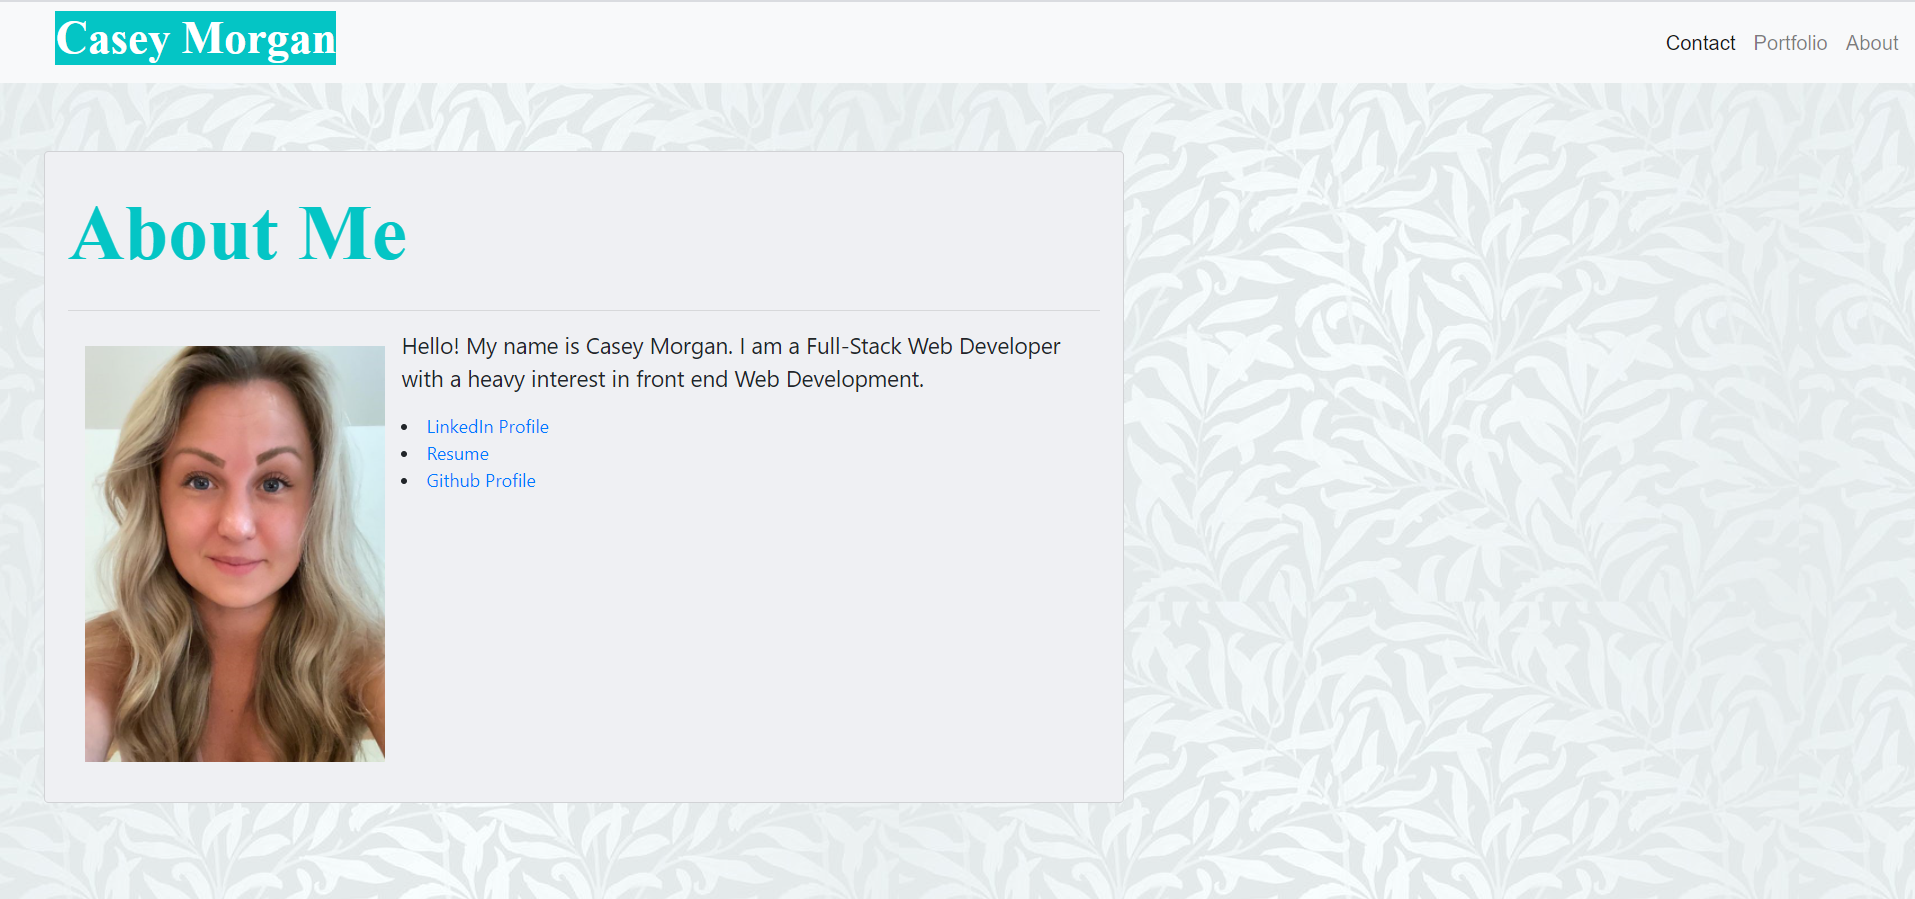
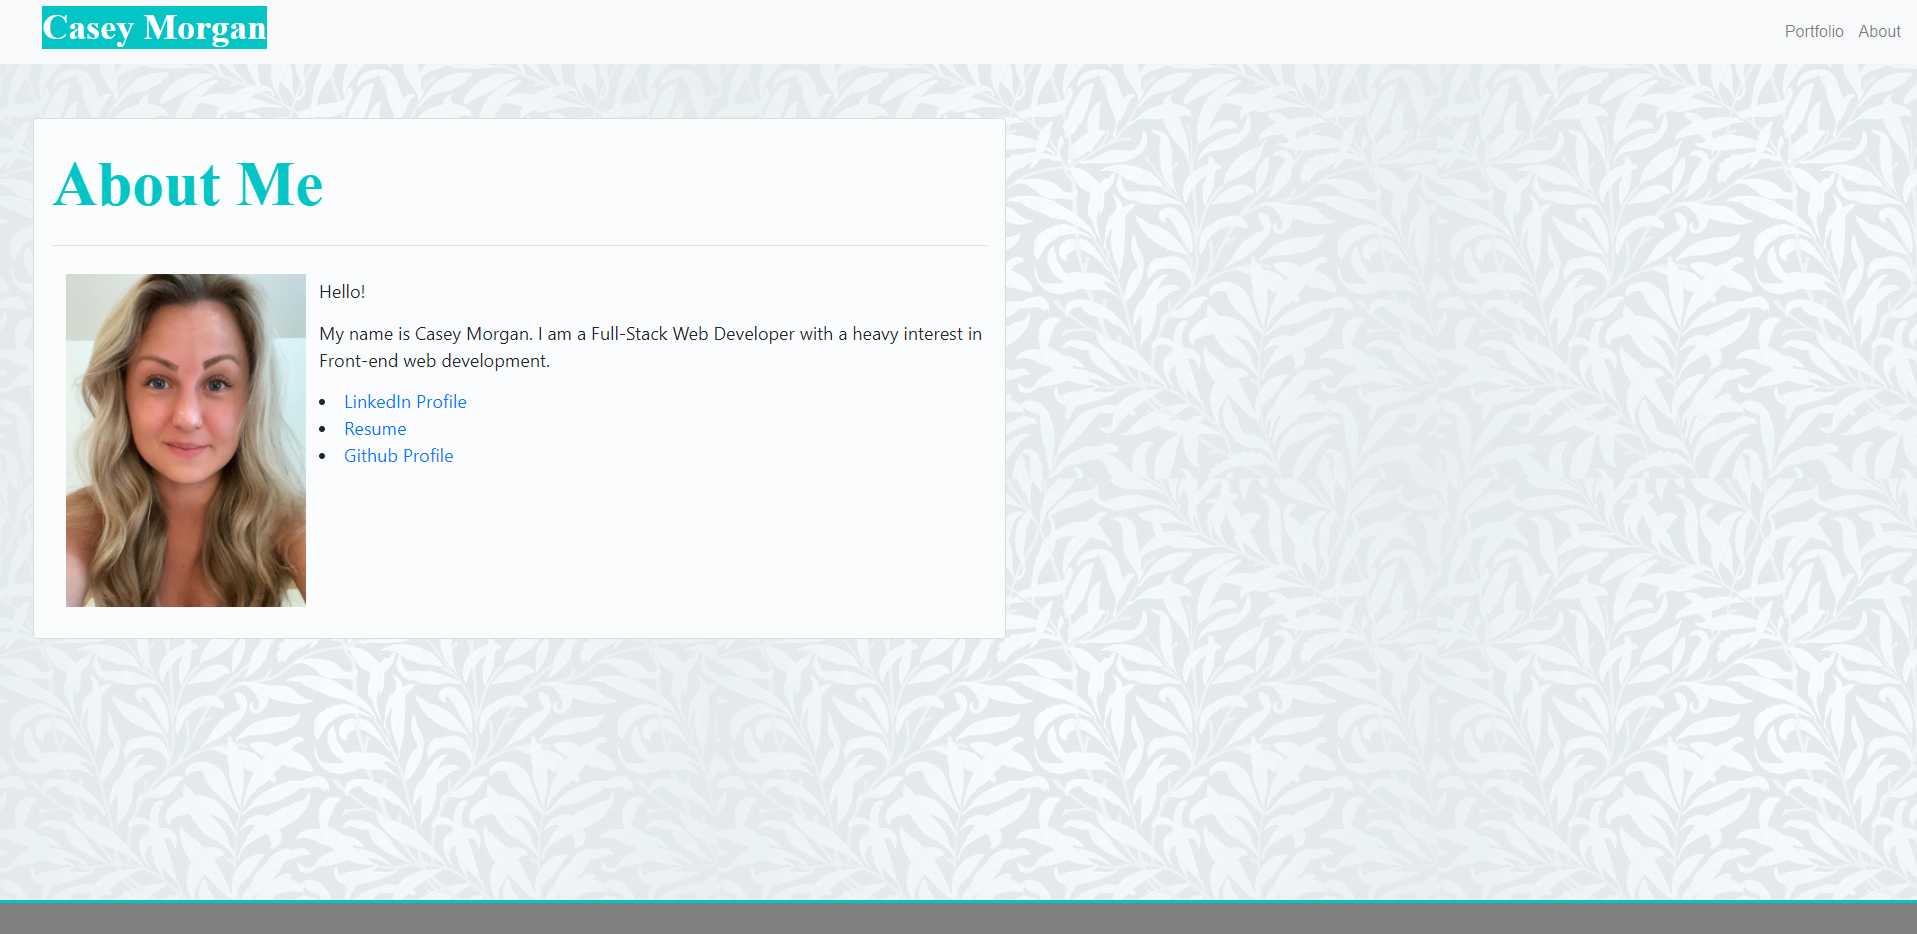
update

diff --git a/index.html b/index.html
@@ -38,13 +38,19 @@
                     <p>Hello!</p> 
                     <p>My name is Casey Morgan. I am a Full-Stack Web Developer with a heavy interest in Front-end web development.</p>
                     <li>
-                      <a href= "https://www.linkedin.com/in/casey-morgan-78878249?lipi=urn%3Ali%3Apage%3Ad_flagship3_profile_view_base_contact_details%3BIo8BE6OlS7WVtWjoLJDs%2BQ%3D%3D">LinkedIn Profile</a>
+                      <h5> Phone: 123-456-7890</h5>
                     </li>
                     <li>
-                      <a href= "./Assets/Resume.pdf">Resume</a>
+                      <a href= "mailto:caseyjeanmorgan@gmail.com" target="_blank">Email</a>
                     </li>
                     <li>
-                      <a href= "https://github.com/cc22389">Github Profile</a>
+                      <a href= "https://www.linkedin.com/in/casey-morgan-78878249?lipi=urn%3Ali%3Apage%3Ad_flagship3_profile_view_base_contact_details%3BIo8BE6OlS7WVtWjoLJDs%2BQ%3D%3D" target="_blank">LinkedIn Profile</a>
+                    </li>
+                    <li>
+                      <a href= "./Assets/Resume.pdf" target="_blank">Resume</a>
+                    </li>
+                    <li>
+                      <a href= "https://github.com/cc22389" target="_blank">Github Profile</a>
                     </li>
                   </div>
               </div>
@@ -52,6 +58,7 @@
         </div>
       </div>
     </div>
+    <footer></footer>
 
     <script src="https://code.jquery.com/jquery-3.5.1.slim.min.js" integrity="sha384-DfXdz2htPH0lsSSs5nCTpuj/zy4C+OGpamoFVy38MVBnE+IbbVYUew+OrCXaRkfj" crossorigin="anonymous"></script>
     <script src="https://cdn.jsdelivr.net/npm/popper.js@1.16.1/dist/umd/popper.min.js" integrity="sha384-9/reFTGAW83EW2RDu2S0VKaIzap3H66lZH81PoYlFhbGU+6BZp6G7niu735Sk7lN" crossorigin="anonymous"></script>

diff --git a/Assets/index-style.css b/Assets/index-style.css
@@ -1,3 +1,7 @@
+html{
+    position: relative;
+    min-height: 100%;
+}
 .navbar-light{ 
     padding-left: 10px;
     padding-right: 10px;
@@ -19,6 +23,7 @@ h1{
 
 body{
     background-image: url("./Images/grayLeaf.jpg");
+    margin-bottom: 60px;
 }
 
 .container {
@@ -49,7 +54,11 @@ body{
     
 }
 
-@media only screen and (min-width: 400px){
+li {
+    list-style-type: none;
+}
+
+@media only screen and (min-width: 300px){
     body {
         float: left;
         height: auto;
@@ -58,6 +67,22 @@ body{
     .card {
         height: auto;
         Width: 100% !important;
+    }
+    .card-text{
+        height: auto;
+        width: 100% !important;
+    }
+    li {
+        height: 100%;
+        width: auto;
+    }
+    .container {
+        height: auto;
+        width: 100% !important;
+    }
+    #profile-picture {
+        height: 100% ;
+        width: auto;
     }
 }
 @media only screen and (min-width: 768px){
@@ -81,4 +106,14 @@ body{
         height: auto;
         Width: 100% !important;
     }
+}
+
+footer {
+    height: 40px;
+    background-color: gray;
+    border-top: solid;
+    border-top-color: rgb(4, 197, 197);
+    position: absolute;
+    bottom: 0;
+    width: 100%;
 }

diff --git a/Assets/portfolio-style.css b/Assets/portfolio-style.css
@@ -1,3 +1,8 @@
+html{
+    position: relative;
+    min-height: 100%;
+}
+
 .navbar-light{ 
     padding-left: 10px;
     padding-right: 10px;
@@ -19,6 +24,8 @@ h1{
 
 body{
     background-image: url("./Images/grayLeaf.jpg");
+    margin-bottom: 60px;
+
 }
 
 .container {
@@ -73,7 +80,7 @@ ul{
         Width: 80% !important;
     }
 }
-@media only screen and (min-width: 992px){
+@media only screen and (max-width: 992px){
     body{
         width: 100% !important;
         height: auto;
@@ -82,4 +89,14 @@ ul{
         height: auto;
         Width: 80% !important;
     }
+}
+
+footer {
+    height: 40px;
+    background-color: gray;
+    border-top: solid;
+    border-top-color: rgb(4, 197, 197);
+    position: absolute;
+    bottom: 0;
+    width: 100%;
 }

diff --git a/portfolio.html b/portfolio.html
@@ -63,6 +63,8 @@
         </div>
       </div>
     </div>
+
+    <footer></footer>
     
     <script src="https://code.jquery.com/jquery-3.5.1.slim.min.js" integrity="sha384-DfXdz2htPH0lsSSs5nCTpuj/zy4C+OGpamoFVy38MVBnE+IbbVYUew+OrCXaRkfj" crossorigin="anonymous"></script>
     <script src="https://cdn.jsdelivr.net/npm/popper.js@1.16.1/dist/umd/popper.min.js" integrity="sha384-9/reFTGAW83EW2RDu2S0VKaIzap3H66lZH81PoYlFhbGU+6BZp6G7niu735Sk7lN" crossorigin="anonymous"></script>
